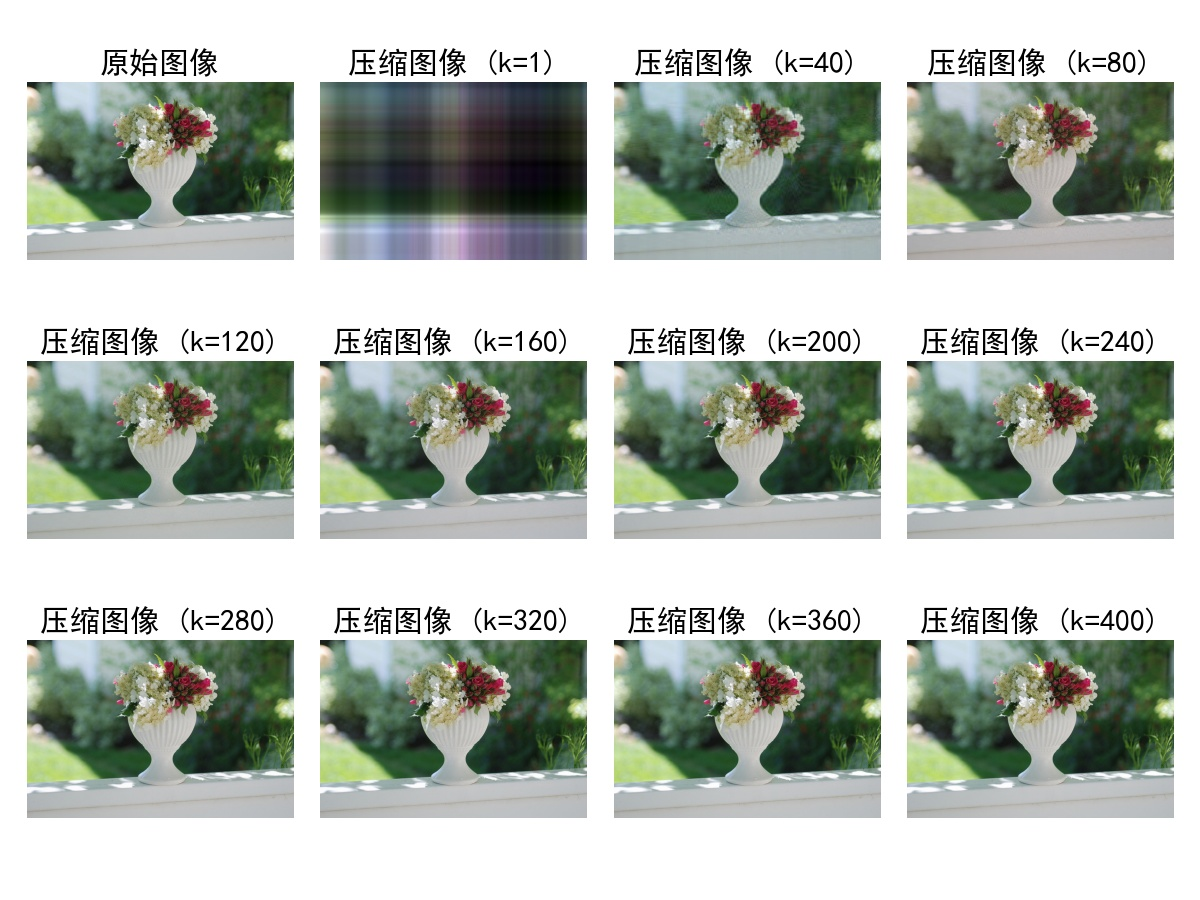
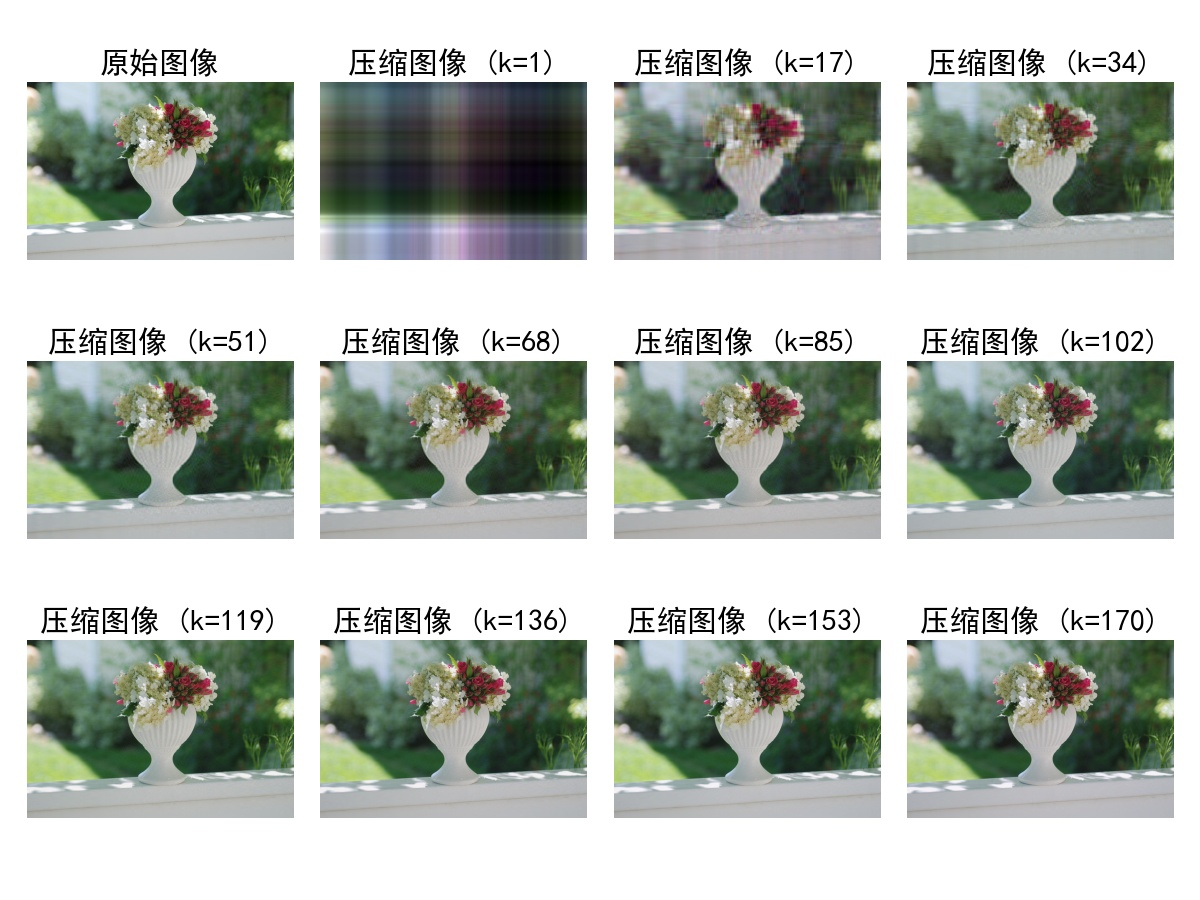
Change the range of k to show the difference

diff --git a/Image_Compress/svd_compress.py b/Image_Compress/svd_compress.py
@@ -107,14 +107,22 @@ def plot_info_curve(S,img_type):
             plt.title('部分奇异值和解释率变化图')
             plt.savefig('./Pic/{0}/info_curve_{1}.jpg'.format(img_type,i+1))
     
-def get_k_list(image_array):
+def get_k_list(S):
     '''
     Get sv number k list
     '''
-    max_sv_num = np.min(image_array.shape[:2])
-    knum = (max_sv_num//100)*10
+    if type(S) == list:
+        Sp = S[0]
+    else:
+        Sp = S
+    
+    S_rate = np.cumsum(Sp/np.sum(Sp))
+    k_max = S_rate[S_rate<0.95].size
+    print(k_max)
+    knum = k_max//10
+
     k_list = [1]
-    k_list.extend(np.arange(knum,max_sv_num,knum).tolist())
+    k_list.extend(np.arange(knum,k_max,knum).tolist())
     return k_list
 
 def normalize_image(image_array):
@@ -282,12 +290,12 @@ if __name__ == '__main__':
     img_type = check_img_type(image_array)
 
     # 绘制奇异值和解释率变动曲线
-    # S = svd_full(image_array,img_type)
+    S = svd_full(image_array,img_type)
     # plot_sv_curve(S,img_type)
     # plot_info_curve(S,img_type)
 
     # 以50为间隔，设置K值
-    k_list = get_k_list(image_array)
+    k_list = get_k_list(S)
 
     if img_type == 'Grey':
         n_image, cr_list, ssim_list, ncc_list = svd_compress_grey(image_array,k_list)

diff --git a/log_files/2024-5-1架构.md b/log_files/2024-5-1架构.md
@@ -37,11 +37,11 @@
 7. 指标
    1. 压缩比：CR  = (mk+k+nk)/mn=k(m+n+1)/mn
    2. SSIM
-   3. 两者乘积
+   3. NCC
 8. 结果
    1. 图像描述信息（像素、颜色、来源）
    2. 奇异值曲线
    3. 信息变动曲线
    4. 不同k值的图像
-   5. 压缩比 ssim 乘积变换图
+   5. 压缩比 ssim NCC变换图
    6. 综合比较表 包含图像文件大小
